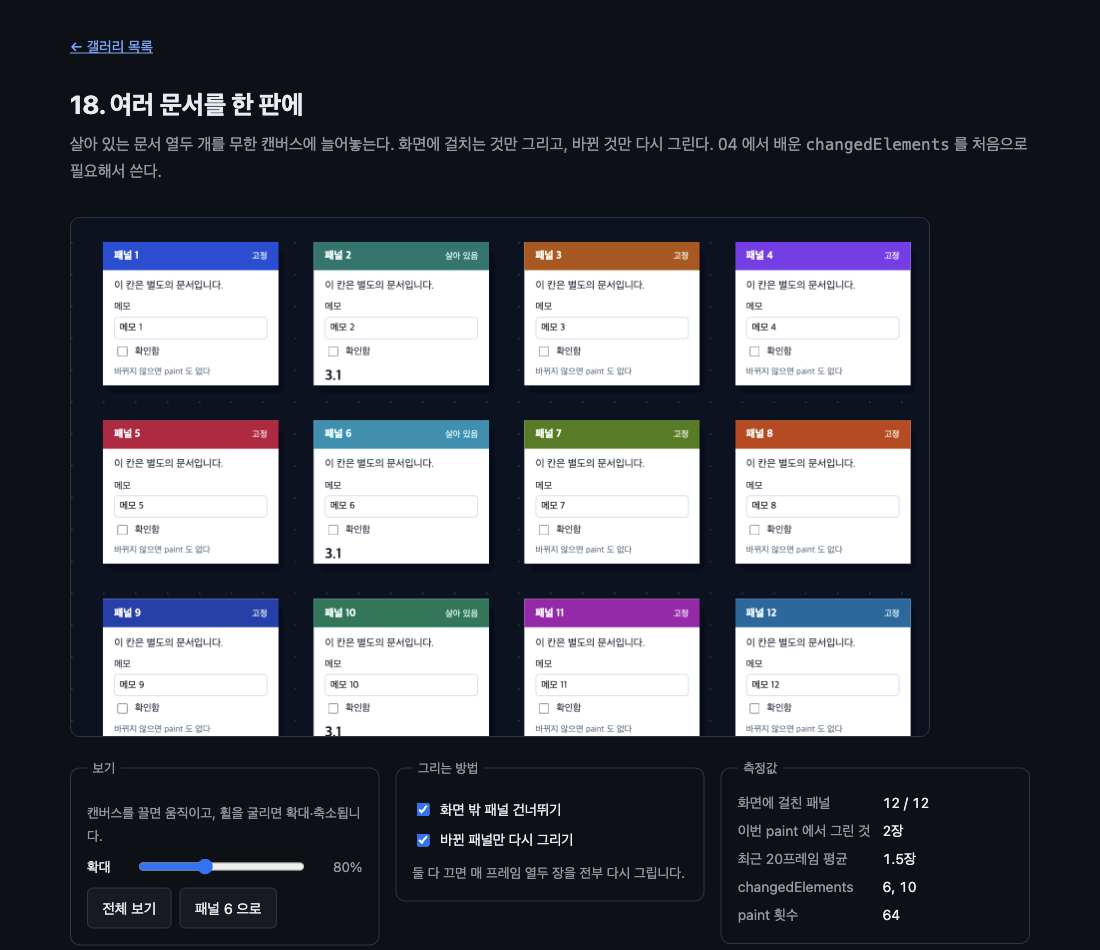
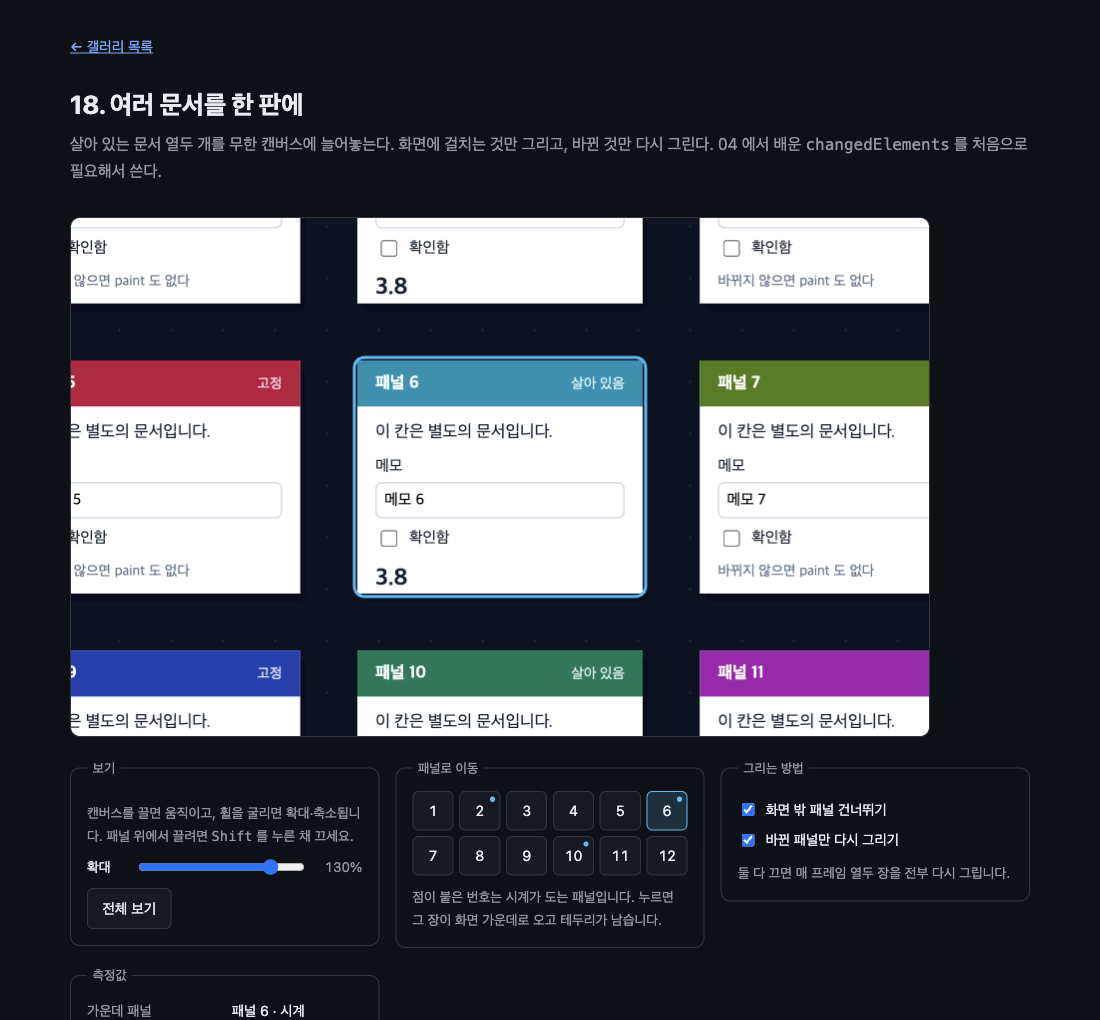
feat(18-document-workspace): 원하는 패널로 이동하는 고르개 (#62)
"패널 6 으로" 버튼이 6번으로만 갔다. 1~12 번호 버튼으로 바꿔 원하는
문서로 갈 수 있게 했다. 시계가 도는 패널에는 점을 붙이고, 고른 패널에는
테두리를 남기고, 측정값에 "가운데 패널" 을 더했다.

패널 위에서는 판을 끌 수 없다는 것도 이번에 드러났다. 히트 테스트를
켜 둔 자식이 포인터를 먼저 가져가기 때문이다. Shift 를 누르고 있는
동안만 자식을 히트 테스트에서 빼도록 했다.

컬링과 부분 갱신 동작은 그대로다. 테두리는 drawPanel 안에서 그리므로
부분 갱신에서도 잔상이 남지 않는다.

Closes #61

diff --git a/galleries/18-document-workspace/src/main.js b/galleries/18-document-workspace/src/main.js
@@ -39,6 +39,7 @@ const zoomInput = document.querySelector('#zoom');
 const cullToggle = document.querySelector('#cull');
 const partialToggle = document.querySelector('#partial');
 const metrics = {
+  center: document.querySelector('#m-center'),
   visible: document.querySelector('#m-visible'),
   drawn: document.querySelector('#m-drawn'),
   average: document.querySelector('#m-average'),
@@ -53,6 +54,9 @@ const history = [];
 let paintCount = 0;
 let needsFullRedraw = true;
 
+/** 고르개로 고른 패널. 어느 것을 보러 갔는지 테두리로 남긴다. */
+let selected = null;
+
 if (ensureSupport()) {
   start();
 }
@@ -63,6 +67,7 @@ function start() {
   stage.layoutSubtree = true;
   stage.addEventListener('paint', guardPaint(onPaint));
 
+  buildPicker();
   wireCamera();
   wireControls();
 
@@ -91,6 +96,44 @@ function buildPanels() {
       y: Math.floor(index / COLUMNS) * (PANEL_H + GAP_Y),
     });
   }
+}
+
+/** 패널 수만큼 번호 버튼을 만든다. 패널을 늘리면 버튼도 따라 는다. */
+function buildPicker() {
+  const picker = document.querySelector('#picker');
+
+  for (const panel of panels) {
+    const button = document.createElement('button');
+    button.type = 'button';
+    button.textContent = String(panel.index + 1);
+    button.className = panel.live ? 'live' : '';
+    button.title = `패널 ${panel.index + 1}${panel.live ? ' (시계가 도는 패널)' : ''}`;
+    button.setAttribute('aria-pressed', 'false');
+    button.addEventListener('click', () => focusPanel(panel));
+    picker.append(button);
+  }
+}
+
+/** 고른 패널을 화면 가운데로 가져온다. */
+function focusPanel(panel) {
+  const zoom = clampZoom(1.3);
+  selected = panel;
+  markPicker();
+
+  moveCamera({
+    zoom,
+    x: panel.x + PANEL_W / 2 - stage.width / 2 / zoom,
+    y: panel.y + PANEL_H / 2 - stage.height / 2 / zoom,
+  });
+  zoomInput.value = String(Math.round(zoom * 100));
+  showZoom();
+}
+
+function markPicker() {
+  const buttons = document.querySelectorAll('#picker button');
+  buttons.forEach((button, index) => {
+    button.setAttribute('aria-pressed', String(selected?.index === index));
+  });
 }
 
 /* 그리기 ------------------------------------------------------------------ */
@@ -138,6 +181,17 @@ function drawPanel(panel, partial) {
   ctx.restore();
 
   const matrix = ctx.drawElementImage(panel.frame, box.x, box.y, box.width, box.height);
+
+  // 고른 패널 표시. 부분 갱신에서도 이 패널을 다시 그릴 때 같이 그려지므로 잔상이 없다.
+  if (selected === panel) {
+    ctx.save();
+    ctx.strokeStyle = '#38bdf8';
+    ctx.lineWidth = 3;
+    ctx.beginPath();
+    ctx.roundRect(box.x - 3, box.y - 3, box.width + 6, box.height + 6, 10);
+    ctx.stroke();
+    ctx.restore();
+  }
 
   // 그린 자리에서 클릭과 입력이 잡히게 한다.
   // 회전은 없지만 확대가 들어가므로 transform-origin: 0 0 이 필요하다 (17 참고).
@@ -200,6 +254,17 @@ function moveCamera(changes) {
 
 function wireCamera() {
   let dragging = null;
+
+  // 패널이 히트 테스트를 받으므로 패널 위에서는 캔버스가 pointerdown 을 못 받는다.
+  // Shift 를 누르고 있는 동안만 자식들을 히트 테스트에서 빼서 어디서든 끌 수 있게 한다.
+  const setPanMode = (on) => stage.classList.toggle('pan', on);
+  window.addEventListener('keydown', (event) => {
+    if (event.key === 'Shift') setPanMode(true);
+  });
+  window.addEventListener('keyup', (event) => {
+    if (event.key === 'Shift') setPanMode(false);
+  });
+  window.addEventListener('blur', () => setPanMode(false));
 
   stage.addEventListener('pointerdown', (event) => {
     dragging = { x: event.clientX, y: event.clientY };
@@ -266,6 +331,8 @@ function wireControls() {
   });
 
   document.querySelector('#fit').addEventListener('click', () => {
+    selected = null;
+    markPicker();
     const worldWidth = COLUMNS * (PANEL_W + GAP_X) - GAP_X;
     const worldHeight = Math.ceil(TONES.length / COLUMNS) * (PANEL_H + GAP_Y) - GAP_Y;
     const zoom = clampZoom(
@@ -275,18 +342,6 @@ function wireControls() {
       zoom,
       x: worldWidth / 2 - stage.width / 2 / zoom,
       y: worldHeight / 2 - stage.height / 2 / zoom,
-    });
-    zoomInput.value = String(Math.round(zoom * 100));
-    showZoom();
-  });
-
-  document.querySelector('#focus').addEventListener('click', () => {
-    const target = panels[5];
-    const zoom = clampZoom(1.3);
-    moveCamera({
-      zoom,
-      x: target.x + PANEL_W / 2 - stage.width / 2 / zoom,
-      y: target.y + PANEL_H / 2 - stage.height / 2 / zoom,
     });
     zoomInput.value = String(Math.round(zoom * 100));
     showZoom();
@@ -313,11 +368,28 @@ function showZoom() {
 
 /* 측정값 ------------------------------------------------------------------- */
 
+/** 캔버스 한가운데에 놓인 패널이 몇 번인지. 끌거나 확대하면 따라 바뀐다. */
+function describeCenter() {
+  const middle = { x: stage.width / 2, y: stage.height / 2 };
+  const found = panels.find((panel) => {
+    const box = screenBox(panel);
+    return (
+      middle.x >= box.x &&
+      middle.x <= box.x + box.width &&
+      middle.y >= box.y &&
+      middle.y <= box.y + box.height
+    );
+  });
+  if (!found) return '패널 없음 (빈자리)';
+  return `패널 ${found.index + 1}${found.live ? ' · 시계' : ''}`;
+}
+
 function report(visible, drawn, changed) {
   history.push(drawn);
   if (history.length > 20) history.shift();
   const average = history.reduce((sum, value) => sum + value, 0) / history.length;
 
+  metrics.center.textContent = describeCenter();
   metrics.visible.textContent = `${visible} / ${panels.length}`;
   metrics.drawn.textContent = `${drawn}장`;
   metrics.average.textContent = `${average.toFixed(1)}장`;

diff --git a/galleries/18-document-workspace/index.html b/galleries/18-document-workspace/index.html
@@ -22,15 +22,27 @@
       <div class="controls">
         <fieldset>
           <legend>보기</legend>
-          <p class="hint">캔버스를 끌면 움직이고, 휠을 굴리면 확대·축소됩니다.</p>
+          <p class="hint">
+            캔버스를 끌면 움직이고, 휠을 굴리면 확대·축소됩니다. 패널 위에서 끌려면
+            <kbd>Shift</kbd> 를 누른 채 끄세요.
+          </p>
           <label class="range"
             >확대 <input type="range" id="zoom" min="35" max="150" value="80" />
             <output for="zoom"></output
           ></label>
           <div class="buttons">
             <button type="button" id="fit">전체 보기</button>
-            <button type="button" id="focus">패널 6 으로</button>
           </div>
+        </fieldset>
+
+        <fieldset>
+          <legend>패널로 이동</legend>
+          <!-- 버튼은 패널과 함께 스크립트가 만든다. 개수가 한곳에서만 정해지게. -->
+          <div class="picker" id="picker"></div>
+          <p class="hint">
+            점이 붙은 번호는 시계가 도는 패널입니다. 누르면 그 장이 화면 가운데로 오고 테두리가
+            남습니다.
+          </p>
         </fieldset>
 
         <fieldset>
@@ -47,6 +59,8 @@
         <fieldset>
           <legend>측정값</legend>
           <dl class="metrics">
+            <dt>가운데 패널</dt>
+            <dd id="m-center">—</dd>
             <dt>화면에 걸친 패널</dt>
             <dd id="m-visible">—</dd>
             <dt>이번 paint 에서 그린 것</dt>

diff --git a/galleries/18-document-workspace/src/style.css b/galleries/18-document-workspace/src/style.css
@@ -13,6 +13,11 @@
   cursor: grabbing;
 }
 
+/* Shift 를 누르고 있는 동안. 자식이 포인터를 가로채지 않아 어디서든 끌 수 있다. */
+#stage.pan iframe {
+  pointer-events: none !important;
+}
+
 /* canvas 의 직계 자식. 확대가 들어가므로 축을 왼쪽 위로 고정해야
    반환 행렬을 그대로 쓸 수 있다. 17 에서 확인한 것이다. */
 #stage iframe {
@@ -69,6 +74,36 @@ output {
   display: flex;
   gap: 0.5rem;
   margin-top: 0.6rem;
+}
+
+.picker {
+  display: grid;
+  grid-template-columns: repeat(6, 1fr);
+  gap: 0.35rem;
+}
+
+.picker button {
+  position: relative;
+  padding: 0.4rem 0;
+  font-variant-numeric: tabular-nums;
+}
+
+/* 시계가 도는 패널에는 점을 붙인다. */
+.picker button.live::after {
+  content: '';
+  position: absolute;
+  top: 0.28rem;
+  right: 0.28rem;
+  width: 0.32rem;
+  height: 0.32rem;
+  border-radius: 50%;
+  background: #38bdf8;
+}
+
+.picker button[aria-pressed='true'] {
+  border-color: #38bdf8;
+  background: rgb(56 189 248 / 18%);
+  color: #e0f2fe;
 }
 
 .metrics {

diff --git a/galleries/18-document-workspace/README.md b/galleries/18-document-workspace/README.md
@@ -2,7 +2,7 @@
 
 살아 있는 문서 열두 개를 무한 캔버스에 늘어놓는다. 화면에 걸치는 것만 그리고, 바뀐 것만 다시 그린다. 04 에서 배운 `changedElements` 를 처음으로 필요해서 쓴다.
 
-![문서 열두 장이 격자로 놓인 작업판. 측정값에 "화면에 걸친 패널 12/12, 이번 paint 에서 그린 것 2장, changedElements 6, 10" 이 표시돼 있다](screenshot.png)
+![패널 6 으로 이동해 파란 테두리가 둘린 화면. 아래에는 1~12 번호 버튼이 있고 측정값에 "가운데 패널 패널 6 · 시계" 가 보인다](screenshot.png)
 
 > 이 문서의 측정값은 Chrome 151.0.7922.172 (macOS) 에서 2026-08-23 에 잰 것이다. 표준화 전 API 라 다음 버전에서 달라질 수 있다.
 
@@ -13,6 +13,7 @@
 - 안 그린 요소는 히트 테스트에서 빼기 (`transform: none` + `pointer-events: none`)
 - 확대가 들어가도 그림 위에서 입력이 잡힌다. `transform-origin: 0 0` 이 필요하다
 - 무한 캔버스의 좌표: 월드 좌표 ↔ 화면 좌표
+- 히트 테스트를 켜 두면 그 위에서 캔버스를 끌 수 없다. 잠깐 꺼 주는 방법
 
 ## 실행 방법
 
@@ -21,7 +22,7 @@ mise run serve
 mise run chrome
 ```
 
-브라우저에서 `galleries/18-document-workspace/` 를 연다. 캔버스를 끌면 움직이고 휠을 굴리면 확대·축소된다.
+브라우저에서 `galleries/18-document-workspace/` 를 연다. 번호 버튼을 누르면 그 문서가 화면 가운데로 온다. 캔버스를 끌면 움직이고 휠을 굴리면 확대·축소되며, 패널 위에서 끌 때는 `Shift` 를 누른 채 끈다.
 
 ## 잰 결과
 
@@ -87,7 +88,84 @@ function moveCamera(changes) {
 }
 ```
 
-### 4. 안 그린 것은 히트 테스트에서 뺀다
+### 4. 원하는 문서로 가기
+
+번호 버튼은 패널과 함께 스크립트가 만든다. 패널 수를 바꾸면 버튼도 따라 는다.
+
+```js
+for (const panel of panels) {
+  const button = document.createElement('button');
+  button.type = 'button';
+  button.textContent = String(panel.index + 1);
+  button.className = panel.live ? 'live' : '';
+```
+
+누르면 그 패널이 화면 한가운데 오도록 카메라를 옮기고, 어느 것을 골랐는지 테두리로 남긴다.
+
+```js
+function focusPanel(panel) {
+  const zoom = clampZoom(1.3);
+  selected = panel;
+  markPicker();
+
+  moveCamera({
+    zoom,
+    x: panel.x + PANEL_W / 2 - stage.width / 2 / zoom,
+    y: panel.y + PANEL_H / 2 - stage.height / 2 / zoom,
+  });
+```
+
+테두리는 `drawPanel()` 안에서 그린다. 부분 갱신으로 그 패널만 다시 그릴 때도 함께 그려지므로 잔상이 남지 않는다.
+
+지금 화면 가운데에 무엇이 있는지도 함께 보여 준다. 끌거나 확대하면 따라 바뀐다.
+
+```js
+const found = panels.find((panel) => {
+  const box = screenBox(panel);
+  return (
+    middle.x >= box.x &&
+    middle.x <= box.x + box.width &&
+    middle.y >= box.y &&
+    middle.y <= box.y + box.height
+  );
+});
+```
+
+```text
+패널 9 로 이동 → 가운데 패널: 패널 9,  화면에 걸친 패널 4 / 12
+패널 3 로 이동 → 가운데 패널: 패널 3,  화면에 걸친 패널 6 / 12
+전체 보기      → 가운데 패널: 패널 없음 (빈자리), 12 / 12
+```
+
+### 5. 히트 테스트를 켜 두면 그 위에서 끌 수 없다
+
+패널을 누를 수 있게 만들어 놨으니, 패널 위에서 누른 포인터는 캔버스가 아니라 패널이 가져간다. 그래서 확대해 놓으면 화면이 패널로 덮여 판을 끌 수가 없다.
+
+`Shift` 를 누르고 있는 동안만 자식들을 히트 테스트에서 빼서 해결했다.
+
+```js
+const setPanMode = (on) => stage.classList.toggle('pan', on);
+window.addEventListener('keydown', (event) => {
+  if (event.key === 'Shift') setPanMode(true);
+});
+```
+
+```css
+#stage.pan iframe {
+  pointer-events: none !important;
+}
+```
+
+`!important` 가 필요하다. 그리는 쪽에서 매 프레임 `style.pointerEvents = 'auto'` 를 인라인으로 넣기 때문에, 그냥 규칙으로는 이기지 못한다.
+
+확인한 값이다. 패널 12 를 가운데 놓고 같은 거리만큼 끌어 봤다.
+
+```text
+그냥 끌기        가운데 패널: 패널 12 (그대로)
+Shift 누르고 끌기 가운데 패널: 패널 11
+```
+
+### 6. 안 그린 것은 히트 테스트에서 뺀다
 
 이것을 빠뜨리면 화면 밖 패널이 캔버스 왼쪽 위에 그대로 남아 엉뚱한 자리에서 클릭을 가로챈다. 10 에서 배운 것이 규모가 커지면 반드시 지켜야 하는 규칙이 된다.
 
@@ -106,12 +184,12 @@ for (const panel of panels) {
 3개가 pointer-events:none, 예: none
 ```
 
-### 5. 확대해도 눌린다
+### 7. 확대해도 눌린다
 
-130% 로 확대한 상태에서 패널 6 의 체크박스를 실제 마우스 이벤트로 눌러 봤다.
+번호 버튼으로 패널 12 로 간 다음, 그 안의 체크박스를 실제 마우스 이벤트로 눌러 봤다.
 
 ```text
-패널 6 체크박스 자리: 388, 537 → IFRAME(패널 6)
+패널 12 체크박스 자리: 388, 537 → IFRAME(패널 12)
 누르기 전 checked = false
 누른 뒤   checked = true
 ```
@@ -128,6 +206,9 @@ for (const panel of panels) {
 
 ## 직접 해볼 것
 
+- 번호 버튼을 눌러 원하는 문서로 가 보자. 테두리가 남고 "가운데 패널" 이 그 번호가 된다
+- 점이 붙은 번호(2, 6, 10)로 가 보자. 그 패널만 시계가 돈다
+- 확대한 채로 `Shift` 를 누르고 끌어 보자. 패널 위에서도 판이 움직인다
 - "화면 밖 패널 건너뛰기" 를 끄고 확대해 보자. 보이지도 않는 패널을 계속 그린다
 - "바뀐 패널만 다시 그리기" 를 꺼 보자. 평균이 12장으로 뛴다
 - 판을 끌어 보자. 끄는 동안에는 부분 갱신이 꺼진다. 카메라가 움직이면 모두 다시 그려야 한다
